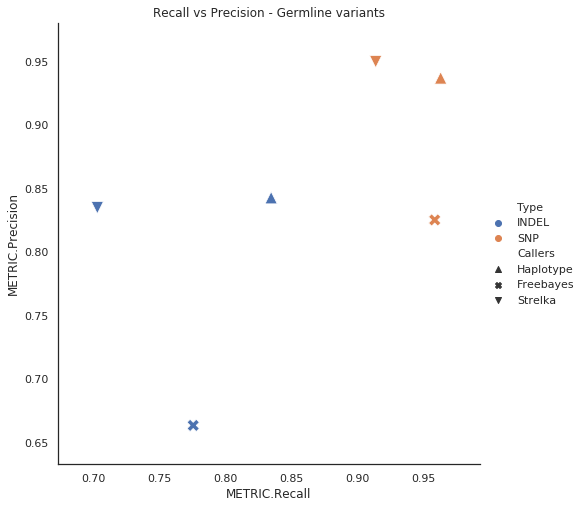
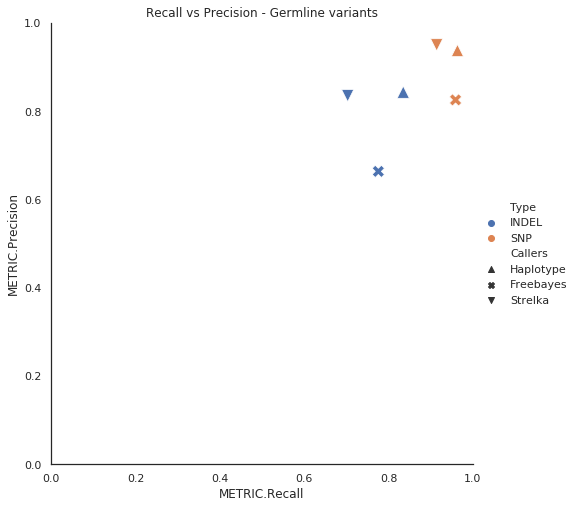
script added and plots modified

diff --git a/germline-variants/README.md b/germline-variants/README.md
@@ -1,7 +1,7 @@
 # Germline Variant calling
 
 - NA12878 sample raw fastq data with high confidence variants set from [Genome in a Bottle GiaB](https://www.nist.gov/programs-projects/genome-bottle) project. 
-- ftp link to download [NA12878](ftp://ftp-trace.ncbi.nih.gov/giab/ftp/data/NA12878/Garvan_NA12878_HG001_HiSeq_Exome)
+- ftp link to download NA12878(ftp://ftp-trace.ncbi.nih.gov/giab/ftp/data/NA12878/Garvan_NA12878_HG001_HiSeq_Exome)
 
 ## Sample Details:
 - NA12878 (WES)

diff --git a/somatic-variants/README.md b/somatic-variants/README.md
@@ -37,7 +37,7 @@ Variant callers:
 	- Generate random sites for snv, indel, sv, and cnv (for given region).
 	- Spike in Mutations (SNVs and INDELs)
 - Convert the bam file into fastq (To run BALSAMIC)
-- VCF - Validation (som.py)
+- VCF - Validation ([som.py](https://github.com/Illumina/hap.py/blob/master/doc/sompy.md))
 
 
 ## Recall vs Precision
